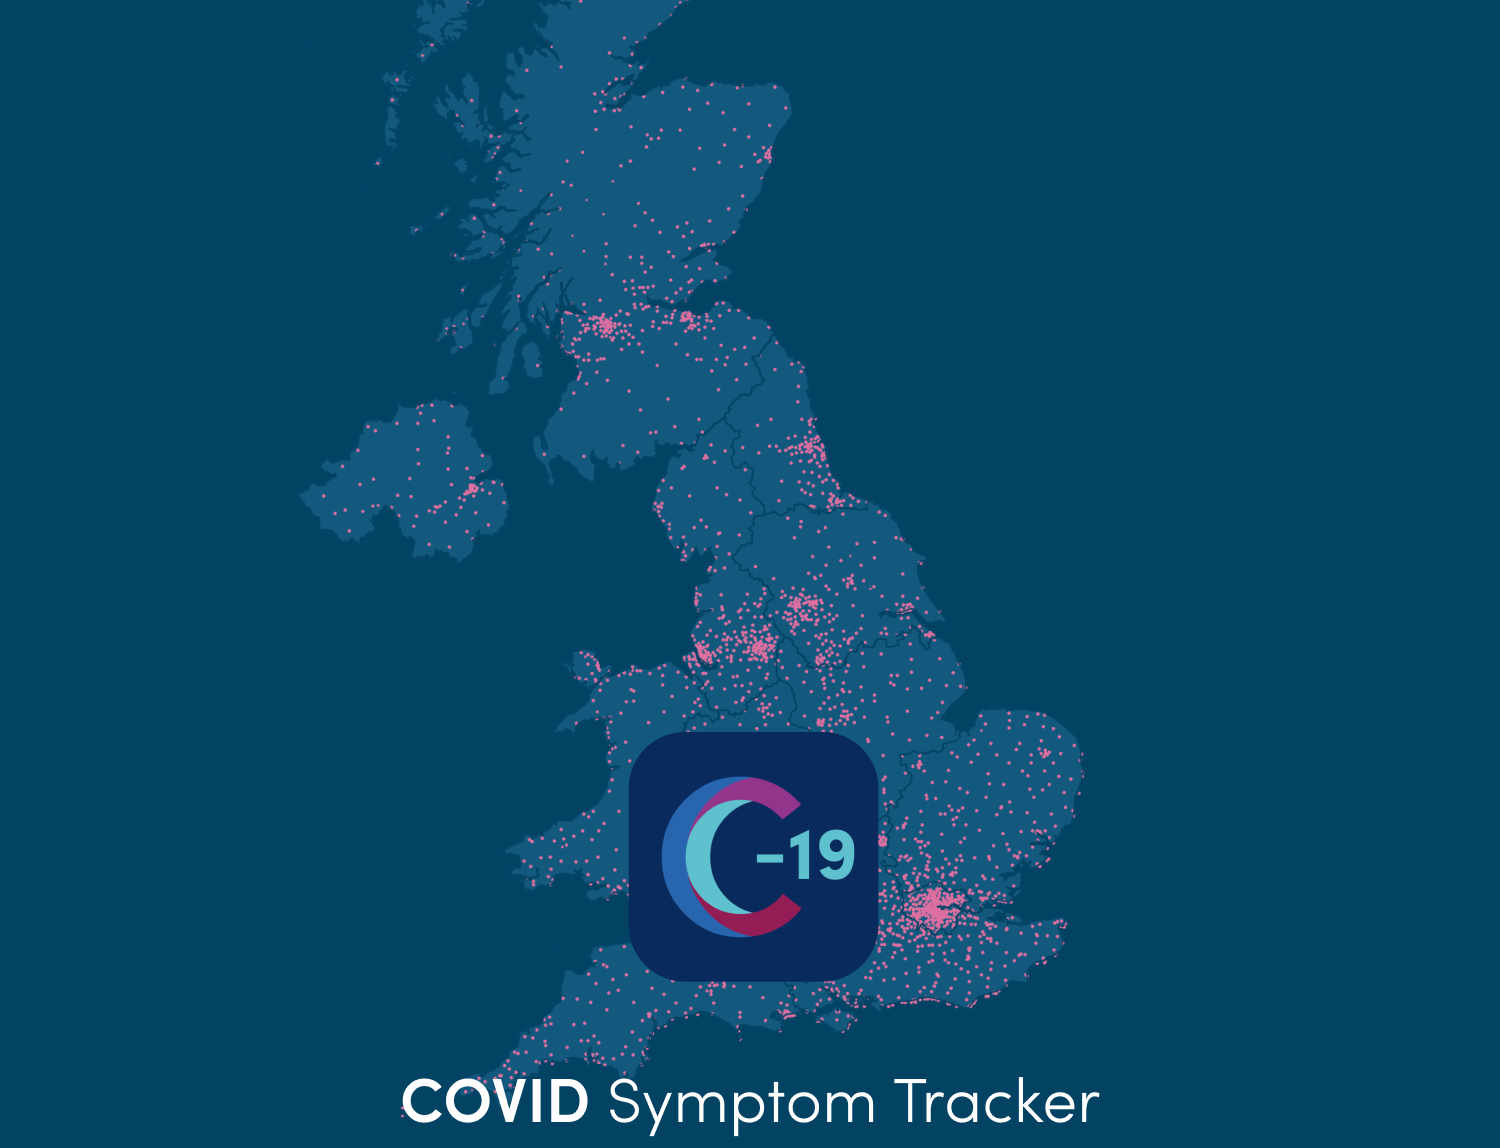
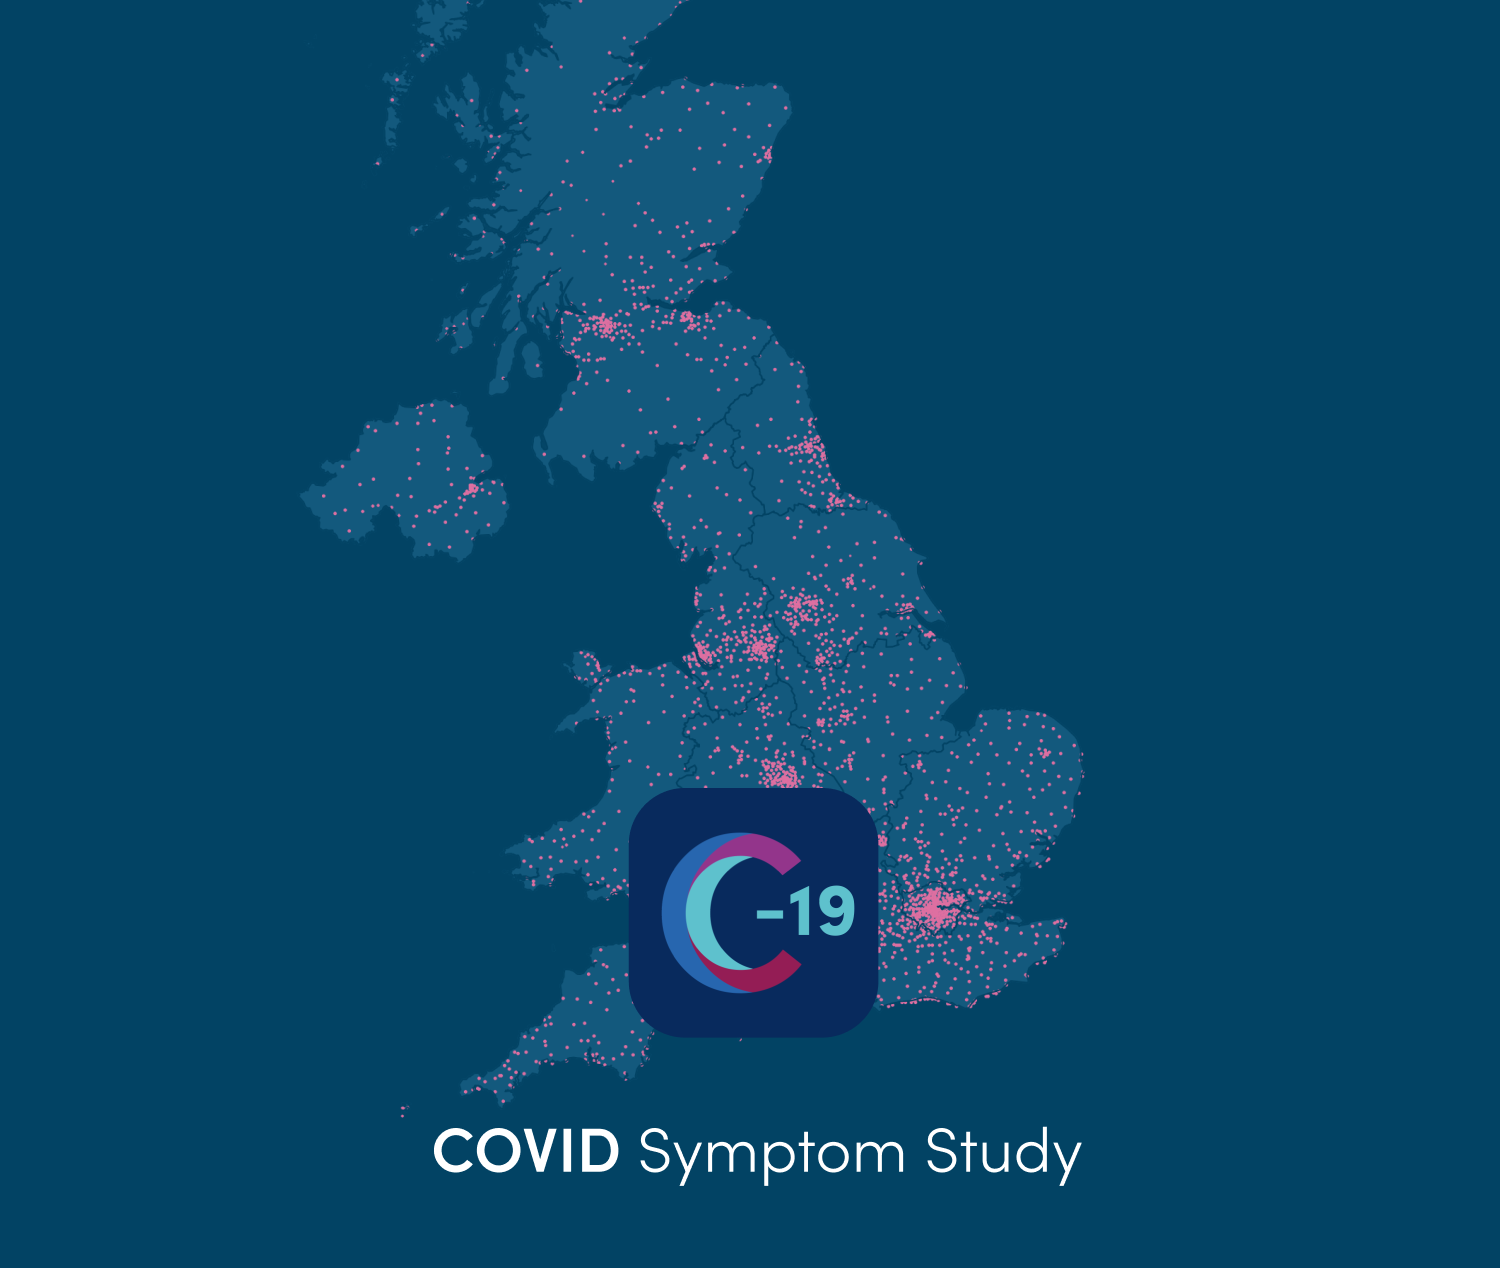
App rename (#237)

Changed region(s): [[0.184, 0.0915, 0.736, 0.9756], [0.3987, 0.0305, 0.5213, 0.1829]]

diff --git a/src/features/register/ConsentScreen.tsx b/src/features/register/ConsentScreen.tsx
@@ -267,7 +267,7 @@ export class ConsentScreen extends Component<PropsType, TermsState> {
         <SimpleTextBlock
           text={[
             'Syftet med det här projektet är att öka kunskapen om sjukdomen covid-19, som orsakas av coronaviruset SARS-CoV-2. Vårt mål är att kartlägga den snabba smittspridningen av covid-19 i landet, och också att undersöka riskfaktorer för att drabbas av en mer allvarlig sjukdomsbild.',
-            'I det här projektet kommer vi att använda oss av en app: ”Covid-19 Symptom Tracker” som är gratis för användarna. I appen kan studiedeltagare/app-användare anonymt fylla i en kort hälsodeklaration och om huruvida de har några symptom som skulle kunna tyda på att de har drabbats av covid-19, t.ex. feber eller hosta. Studiedeltagare som arbetar inom hälso- och sjukvård kommer också att kunna uppge om de exponerats för smitta på sitt arbete. Data som samlas in från alla app-användare kan sedan analyseras på gruppnivå för att undersöka hur och var covid-19 sprids i landet. Vi kommer också att kunna se vad som händer med smittspridningen på sikt, och hur olika delar av landet påverkas av nationella restriktioner gällande t.ex. resande och antal personer som får delta i allmänna sammankomster. Utifrån informationen i hälsodeklarationen kan vi också analysera vilka som verkar ha stor risk att drabbas av svårare symptom. Vi kommer att samla in data så länge som covid-19 sprids i Sverige.',
+            'I det här projektet kommer vi att använda oss av en app: ”Covid-19 Symptom Study” som är gratis för användarna. I appen kan studiedeltagare/app-användare anonymt fylla i en kort hälsodeklaration och om huruvida de har några symptom som skulle kunna tyda på att de har drabbats av covid-19, t.ex. feber eller hosta. Studiedeltagare som arbetar inom hälso- och sjukvård kommer också att kunna uppge om de exponerats för smitta på sitt arbete. Data som samlas in från alla app-användare kan sedan analyseras på gruppnivå för att undersöka hur och var covid-19 sprids i landet. Vi kommer också att kunna se vad som händer med smittspridningen på sikt, och hur olika delar av landet påverkas av nationella restriktioner gällande t.ex. resande och antal personer som får delta i allmänna sammankomster. Utifrån informationen i hälsodeklarationen kan vi också analysera vilka som verkar ha stor risk att drabbas av svårare symptom. Vi kommer att samla in data så länge som covid-19 sprids i Sverige.',
             'Forskningshuvudman för projektet är Lunds universitet. Med forskningshuvudman menas den organisation som är ansvarig för studien.',
           ]}
         />
@@ -275,7 +275,7 @@ export class ConsentScreen extends Component<PropsType, TermsState> {
         <HeaderText text={'Hur går studien till?\n'} />
         <SimpleTextBlock
           text={[
-            'Om du väljer att delta i studien kan du börja använda appen Covid-19 Symptom Tracker. Du kommer att då att först kunna svara på en kort hälsodeklaration. Vi kommer att fråga efter ditt postnummer för att kunna veta ditt ungefärliga geografiska läge i Sverige (appen kommer dock inte att samla in någon GPS data). Vi kommer också att fråga dig om du arbetar inom hälso- och sjukvård, och om du gör det kommer vi att fråga om du blivit exponerad för covid-19 på din arbetsplats och i så fall om du haft tillgång till skyddsutrustning. Du väljer själv hur många frågor du svarar på. Att svara på alla frågor tar ungefär 10-15 minuter.',
+            'Om du väljer att delta i studien kan du börja använda appen Covid-19 Symptom Study. Du kommer att då att först kunna svara på en kort hälsodeklaration. Vi kommer att fråga efter ditt postnummer för att kunna veta ditt ungefärliga geografiska läge i Sverige (appen kommer dock inte att samla in någon GPS data). Vi kommer också att fråga dig om du arbetar inom hälso- och sjukvård, och om du gör det kommer vi att fråga om du blivit exponerad för covid-19 på din arbetsplats och i så fall om du haft tillgång till skyddsutrustning. Du väljer själv hur många frågor du svarar på. Att svara på alla frågor tar ungefär 10-15 minuter.',
             'Sedan kommer du att kunna svara på frågor om huruvida du har symptom av den typ som många får vid covid-19, dvs tex feber, hosta, andningssvårigheter och uttalad trötthet. Du kommer också att kunna fylla i om du har behövt uppsöka sjukvården för dina symptom, och om du blivit testad för covid-19. Du som arbetar inom sjukvården kan också uppdatera om du nyligen blivit exponerad för misstänkt covid-19 på din arbetsplats. Du kommer att kunna uppdatera de här frågorna i appen dagligen, eller så ofta eller sällan du vill, det tar ungefär 1 minut per gång.',
             'Du är anonym när du deltar i studien och svarar på frågorna. Vi kommer inte fråga dig om ditt namn, ditt personnummer, din adress eller ditt telefonnummer. E-postadressen som du använder för att skapa ett konto kommer inte att ingå i forskningsdatabasen på Lunds Universitet. Om du vill kommer du att kunna få push notiser via appen, som påminner om att svara på frågorna eller om vi vill informera alla användare om något. Du kan självklart välja att stänga av push notiser. Frågorna i appen kan komma att uppdateras när vi lär oss mer om covid-19.',
             'Du väljer själv hur länge du vill delta i studien och använda appen. Du kan avsluta ditt deltagande när som helst och/eller avinstallera appen och vi kommer inte att fråga dig varför.',
@@ -295,13 +295,13 @@ export class ConsentScreen extends Component<PropsType, TermsState> {
         <HeaderText text="Vad händer med mina uppgifter?" />
         <SimpleTextBlock
           text={[
-            'Projektet kommer att samla in och registrera information om dig via appen Covid-19 Symptom Tracker. Ändamålet med informationsinsamlingen är att möjliggöra forskning på spridningen av covid-19 i den svenska befolkningen. Den rättsliga grunden för informationsinsamlingen är därmed allmänt intresse.',
-            'Appen Covid-19 Symptom Tracker är utvecklad av forskare på King’s College i London, Guy’s Hospital och St Thomas Hospital i London, samt utvecklare på hälsoföretaget Zoe Global Ltd i Storbritannien. Zoe Global Ltd kommer att ansvara för initial insamling av data från Covid-19 Symptom Tracker. Information från de svenska användarna kommer sedan med säker filöverföring och i krypterad form överföras till Lunds Universitet.',
-            'Lunds Universitet kommer sedan att bygga upp en forskningsdatabas med informationen från svenska användare av Covid-19 Symptom Tracker. Forskningsdatabasen kommer att ligga på en säker server utan tillgång för ickeauktoriserad personal eller andra utomstående. Tillgång till data kommer enbart att ges till utvalda forskare i projektet.',
+            'Projektet kommer att samla in och registrera information om dig via appen Covid-19 Symptom Study. Ändamålet med informationsinsamlingen är att möjliggöra forskning på spridningen av covid-19 i den svenska befolkningen. Den rättsliga grunden för informationsinsamlingen är därmed allmänt intresse.',
+            'Appen Covid-19 Symptom Study är utvecklad av forskare på King’s College i London, Guy’s Hospital och St Thomas Hospital i London, samt utvecklare på hälsoföretaget Zoe Global Ltd i Storbritannien. Zoe Global Ltd kommer att ansvara för initial insamling av data från Covid-19 Symptom Study. Information från de svenska användarna kommer sedan med säker filöverföring och i krypterad form överföras till Lunds Universitet.',
+            'Lunds Universitet kommer sedan att bygga upp en forskningsdatabas med informationen från svenska användare av Covid-19 Symptom Study. Forskningsdatabasen kommer att ligga på en säker server utan tillgång för ickeauktoriserad personal eller andra utomstående. Tillgång till data kommer enbart att ges till utvalda forskare i projektet.',
           ]}
         />
         <RegularText>
-          All information som samlas in från användarna av appen Covid-19 Symptom Tracker kommer att sammanställas och
+          All information som samlas in från användarna av appen Covid-19 Symptom Study kommer att sammanställas och
           analyseras på gruppnivå, och inga individuella karakteristika kommer att kunna identifieras. Resultaten från
           sammanställningarna och analyserna kommer att skickas löpande till Folkhälsomyndigheten och andra myndigheter
           och ansvariga inom hälso- och sjukvård. Resultaten kommer också att publiceras löpande på studiens hemsida (
@@ -355,7 +355,7 @@ export class ConsentScreen extends Component<PropsType, TermsState> {
         <HeaderText text="Deltagandet är frivilligt" />
         <SimpleTextBlock
           text={[
-            'Ditt deltagande i studien är helt frivilligt och du kan när som helst välja att avbryta deltagandet. Om du väljer att inte delta eller vill avbryta ditt deltagande behöver du inte uppge varför. Om du vill avbryta ditt deltagande så kan du själv sluta använda eller avinstallera appen Covid-19 Symptom Tracker.',
+            'Ditt deltagande i studien är helt frivilligt och du kan när som helst välja att avbryta deltagandet. Om du väljer att inte delta eller vill avbryta ditt deltagande behöver du inte uppge varför. Om du vill avbryta ditt deltagande så kan du själv sluta använda eller avinstallera appen Covid-19 Symptom Study.',
           ]}
         />
 

diff --git a/src/features/register/us/PrivacyPolicyUSScreen.tsx b/src/features/register/us/PrivacyPolicyUSScreen.tsx
@@ -29,13 +29,13 @@ export class PrivacyPolicyUSScreen extends Component<PropsType, object> {
     return (
       <View style={styles.rootContainer}>
         <ScrollView>
-          <HeaderText text="COVID-19 Symptom Tracker App Privacy Policy" />
+          <HeaderText text="COVID-19 Symptom Study App Privacy Policy" />
           <RegularText>
             Effective Date: March 27, 2020
             {'\n\n'}
             At Zoe Global Limited (together with its affiliates, “Zoe,” “we,” “us”) we take your privacy seriously.
             Please read the following to learn how we treat your personal information. By using or accessing the
-            COVID-19 Symptom Tracker app and associated website covid.joinzoe.com (together, the “Services”) in any
+            COVID-19 Symptom Study app and associated website covid.joinzoe.com (together, the “Services”) in any
             manner, you acknowledge that you accept the practices and policies outlined in this Privacy Policy, and you
             hereby consent that we will collect, use, and share your information in the following ways.
             {'\n\n'}
@@ -59,8 +59,8 @@ export class PrivacyPolicyUSScreen extends Component<PropsType, object> {
             {'\n\n'}• You:
             {'\n\n'}- when you provide such information directly to us, and
             {'\n'}- when Personal Data about you is automatically collected in connection with your use of our Services
-            {'\n\n'}• On our COVID-19 Tracker website https://covid.joinzoe.com/ we collect Personal Data through
-            cookies and similar technologies such as pixel tags, web beacons, clear GIFs, and JavaScript (collectively,
+            {'\n\n'}• On our COVID-19 Study website https://covid.joinzoe.com/ we collect Personal Data through cookies
+            and similar technologies such as pixel tags, web beacons, clear GIFs, and JavaScript (collectively,
             “Cookies”) to enable our servers to recognize your web browser and tell us how and when you visit and use
             our website, to analyze trends, learn about our user base and operate and improve our website. Cookies are
             small pieces of data– usually text files – placed on your computer, tablet, phone, or similar device when

diff --git a/src/features/register/us/TermsOfUseUSScreen.tsx b/src/features/register/us/TermsOfUseUSScreen.tsx
@@ -38,10 +38,10 @@ export default class TermsOfUseUSScreen extends Component<PropsType> {
         <ScrollView>
           <RegularBoldText>Effective date: March 27, 2020{'\n'}</RegularBoldText>
           <RegularText>
-            Welcome to the COVID-19 Symptom Tracker, provided by Zoe Global Limited (together with its affiliates,
-            “Zoe,” “us,” “we”). Please read on to learn the rules and restrictions that govern your use of our
-            website(s), products, services and applications (the “Services”). By using this app and tracking if you are
-            well or have symptoms, you will be helping medical science and healthcare providers across the country (such
+            Welcome to the COVID-19 Symptom Study, provided by Zoe Global Limited (together with its affiliates, “Zoe,”
+            “us,” “we”). Please read on to learn the rules and restrictions that govern your use of our website(s),
+            products, services and applications (the “Services”). By using this app and tracking if you are well or have
+            symptoms, you will be helping medical science and healthcare providers across the country (such
             as Massachusetts General Hospital) to better understand Coronavirus (COVID-19). The Services are not
             intended for commercial purposes. If you have any questions, comments, or concerns regarding these terms or
             the Services, please contact us at:

diff --git a/src/features/register/sv/PrivacyPolicySVScreen.tsx b/src/features/register/sv/PrivacyPolicySVScreen.tsx
@@ -22,7 +22,7 @@ export default class PrivacyPolicySVScreen extends Component<PropsType, object> 
     return (
       <View style={styles.rootContainer}>
         <ScrollView>
-          <HeaderText text="Integritetsmeddelande för COVID Symptom Tracker Sverige" />
+          <HeaderText text="Integritetsmeddelande för COVID Symptom Study Sverige" />
           <SimpleTextBlock
             text={[
               'Denna app har skapats och drivs av Zoe Global Limited (”Zoe”), som är ett hälsoteknikföretag. Zoe har tillgång till all information du rapporterar.',
@@ -96,7 +96,7 @@ export default class PrivacyPolicySVScreen extends Component<PropsType, object> 
               'be om din feedback om appen eller utföra någon annan typ av enkätundersökning',
               'hålla kontakten med dig om appen och hur den fungerar',
               'skicka dig information om nya versioner av appen eller liknande appar som vi kan ha i framtiden',
-              'dela resultaten från världsomfattande forskning från Covid Symptom Tracker och annan forskning som utförs av Zoe.',
+              'dela resultaten från världsomfattande forskning från Covid Symptom Study och annan forskning som utförs av Zoe.',
             ]}
           />
 

diff --git a/src/components/CovidRating.tsx b/src/components/CovidRating.tsx
@@ -15,9 +15,9 @@ type State = {
   showTakeToStore: boolean;
 };
 
-const USiOSLink = `https://apps.apple.com/us/app/covid-symptom-tracker/id1503529611`;
-const UKiOSLink = `https://apps.apple.com/gb/app/covid-symptom-tracker/id1503529611`;
-const SEiOSLink = `https://apps.apple.com/se/app/covid-symptom-tracker/id1503529611`;
+const USiOSLink = `https://apps.apple.com/us/app/covid-symptom-study/id1503529611`;
+const UKiOSLink = `https://apps.apple.com/gb/app/covid-symptom-study/id1503529611`;
+const SEiOSLink = `https://apps.apple.com/se/app/covid-symptom-study/id1503529611`;
 const AndroidLink = `market://details?id=${Constants.manifest.android.package}`;
 
 const ModalContainer = (props: any) => (

diff --git a/src/features/register/constants.ts b/src/features/register/constants.ts
@@ -2,6 +2,6 @@ export const NursesConsentVersionUS = 'v2';
 export const consentVersionUS = 'v1';
 export const consentVersionUK = 'v2';
 export const consentVersionSE = 'v1';
-export const privacyPolicyVersionUS = 'v1.1';
-export const privacyPolicyVersionUK = 'v2.1';
-export const privacyPolicyVersionSE = 'v2';
+export const privacyPolicyVersionUS = 'v1.2';
+export const privacyPolicyVersionUK = 'v2.2';
+export const privacyPolicyVersionSE = 'v2.1';

diff --git a/CONTRIBUTING.md b/CONTRIBUTING.md
@@ -9,7 +9,7 @@ Before digging into what would be good contributions, let's discuss what would b
 - External contributors can not ask new questions about people's health, symptoms or anything related to PII (name, phone, etc.). Questions asked in the app are decided by our research partners. They are only added for research purposes.
 - Change of wording to the questions is extremely likely to be rejected unless fixing a typo. Questions are phrased by our research partners and go through internal and external reviews.
 - Changes to T&Cs, privacy policy or consent screens. Those are legally binding and are reviewed by legal counsel.
-- Support for new countries. While we would love for the COVID Symptom Tracker to be accessible worldwide, each country has specific data sharing laws that need to be assessed before releasing in the country. Our capacity to do so is heavily constrained.
+- Support for new countries. While we would love for the COVID Symptom Study to be accessible worldwide, each country has specific data sharing laws that need to be assessed before releasing in the country. Our capacity to do so is heavily constrained.
 
 ## In scope PRs
 

diff --git a/README.md b/README.md
@@ -1,4 +1,4 @@
-# COVID-19 Symptom Tracker
+# COVID-19 Symptom Study
 
 ## Table of Contents
 
@@ -22,9 +22,9 @@
   <img src="images/screenshot_3.png" width="180" />
 </p>
 
-COVID-19 Symptom Tracker is an open source Android and iOS app whose goal is to stop the spread of COVID-19 disease and help identify people who are at risk sooner.
+COVID-19 Symptom Study is an open source Android and iOS app whose goal is to stop the spread of COVID-19 disease and help identify people who are at risk sooner.
 
-The COVID-19 Symptom Tracker was designed by doctors and scientists at King's College London, Guys and St Thomas’ Hospitals working in partnership with ZOE Global Ltd – a health science company.
+The COVID-19 Symptom Study was designed by doctors and scientists at King's College London, Guys and St Thomas’ Hospitals working in partnership with ZOE Global Ltd – a health science company.
 
 If you're doing research on COVID-19 and you want to contribute or believe this initiative can help your efforts, please let us know at research@joinzoe.com
 
